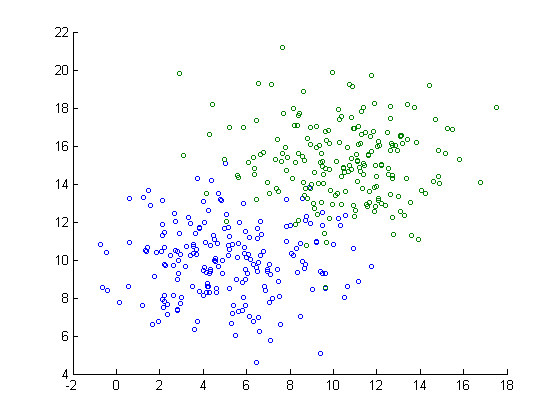
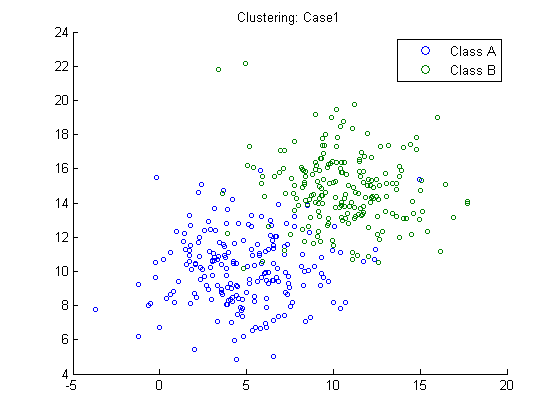
adding labels to graphs

diff --git a/scatterRandnPart2.m b/scatterRandnPart2.m
@@ -7,13 +7,18 @@ R1 = chol(SIGMA1);
 R2= chol(SIGMA2);
 
 
-z=[repmat(MU1,200,1) + randn(200,2)*R1,repmat(MU2,200,1) + randn(200,2)*R2];
 
 z1 = repmat(MU1,200,1) + randn(200,2)*R1;
 z2 = repmat(MU2,200,1) + randn(200,2)*R2;
 
 
-figure
+figure;
+title('Clustering: Case1')
+hold on;
+
 scatter(z1(:,1),z1(:,2),10);
-hold
+hold off
+hold on
 scatter(z2(:,1),z2(:,2),10);
+hold off
+legend('Class A', 'Class B');

diff --git a/scatterrandnpart2cde.m b/scatterrandnpart2cde.m
@@ -14,10 +14,17 @@ z4 = repmat(MU4,200,1) + randn(200,2)*R4;
 z5 = repmat(MU5,150,1) + randn(150,2)*R5;
 
 
-figure
+figure;
+title('Clustering: Case2')
+hold on;
 scatter(z3(:,1),z3(:,2),10);
+hold off;
 hold on;
 scatter(z4(:,1),z4(:,2),10);
 hold off;
 hold on 
 scatter(z5(:,1),z5(:,2),10);
+hold off;
+legend('Class C', 'Class D','Class E');
+
+
